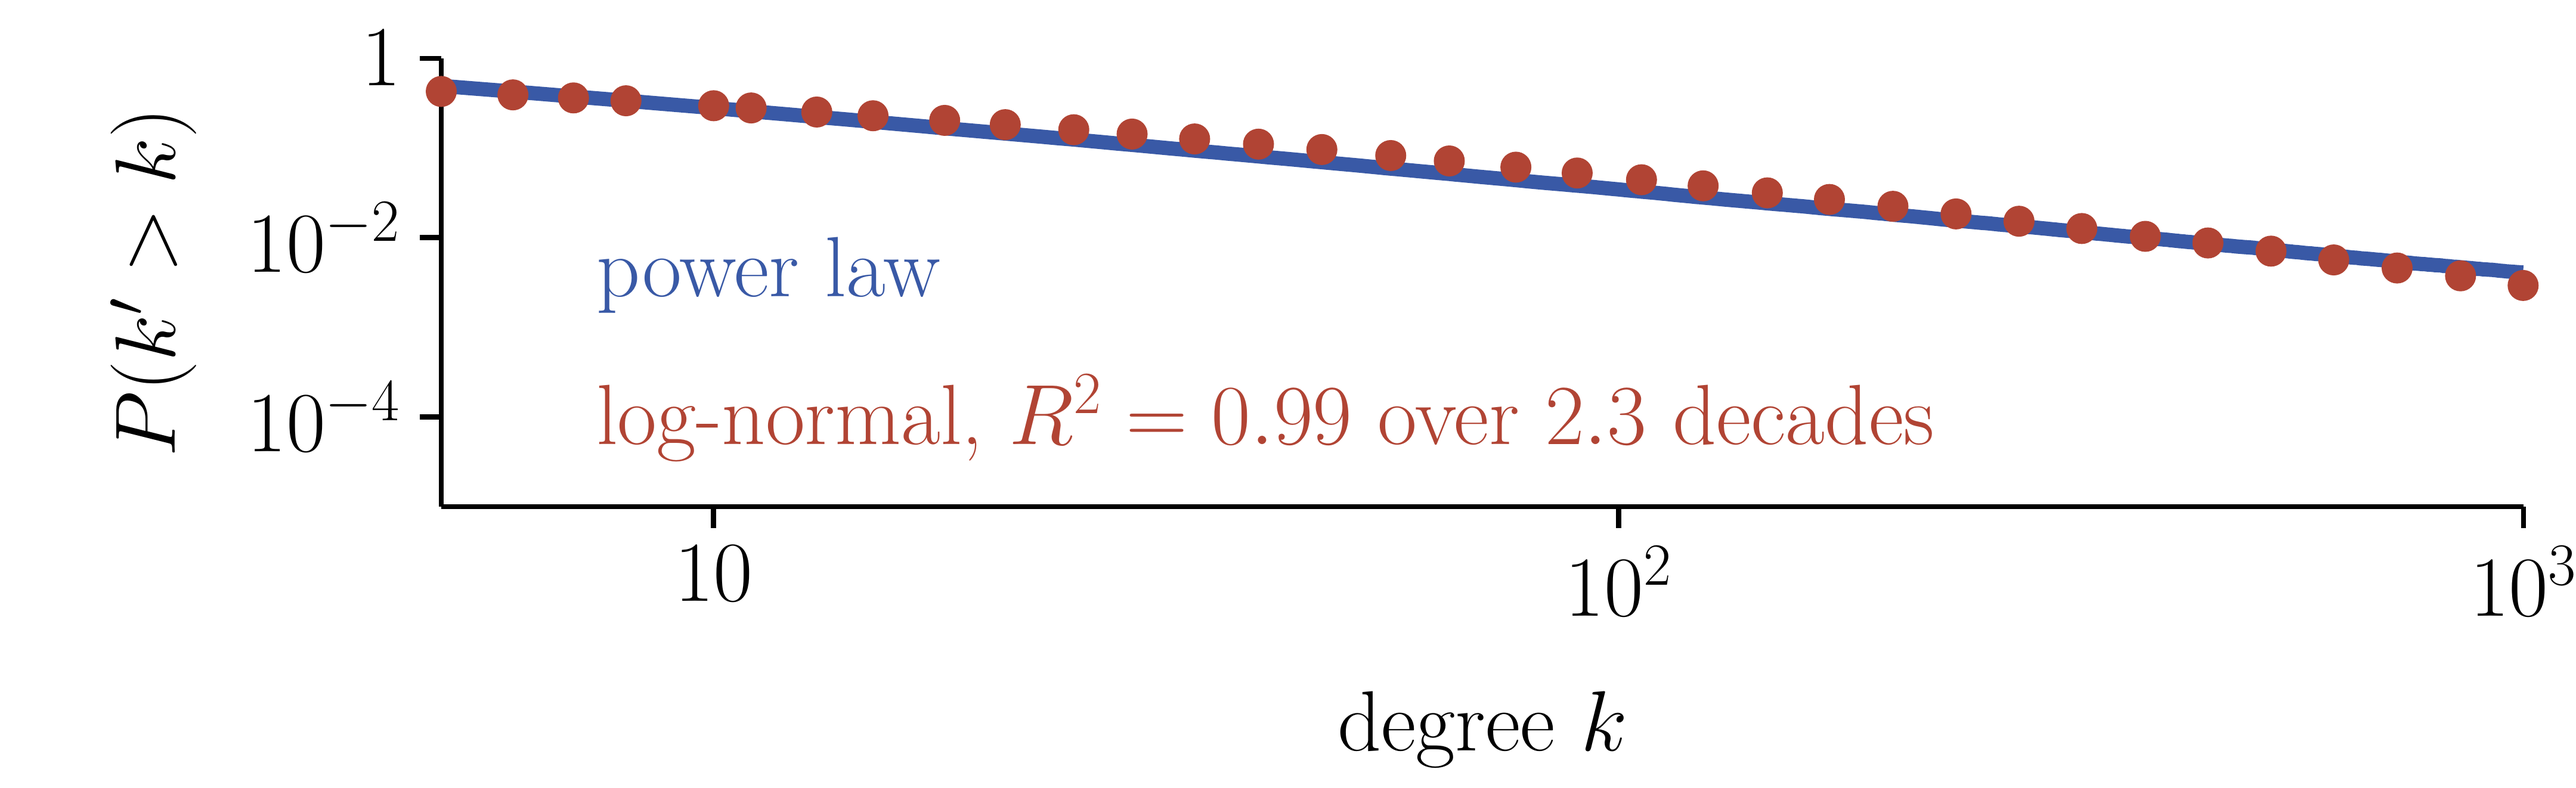
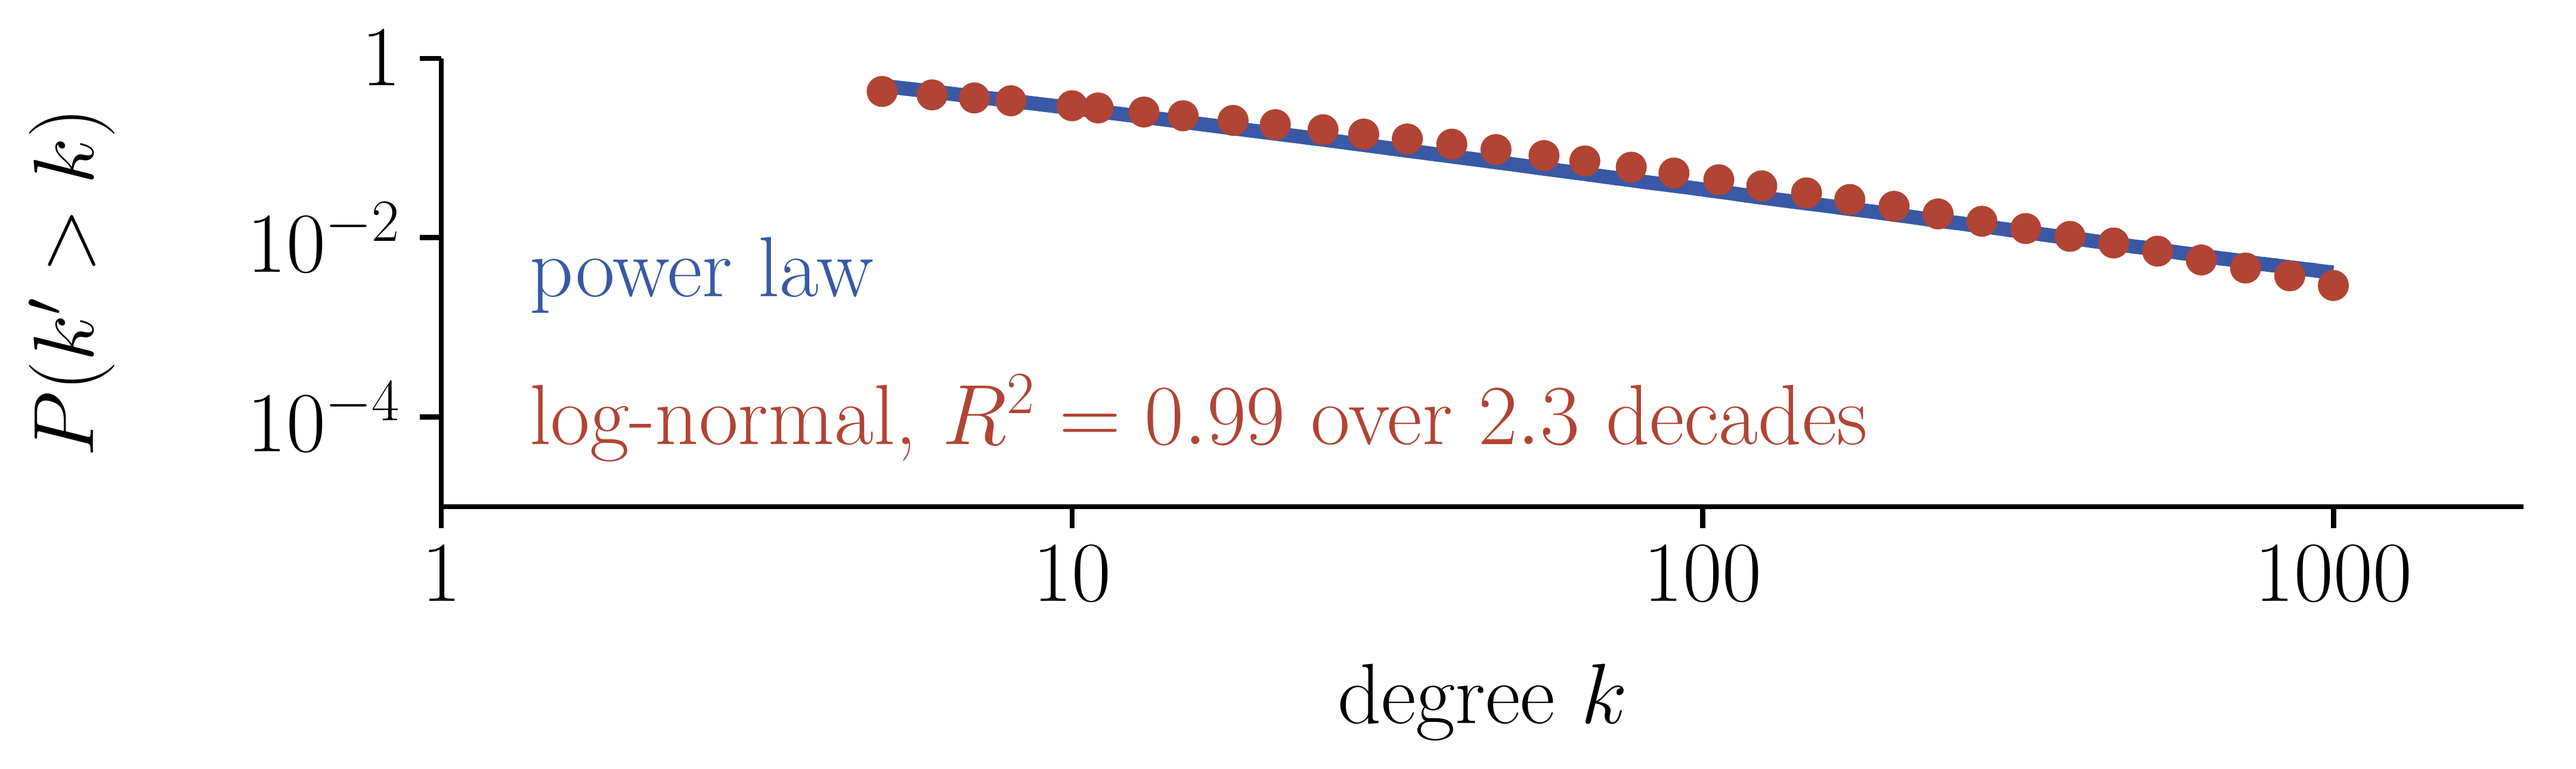
m04 Batch C R5 minors: the module's CCDF ruler on both axes, and a timeline that claims nothing
D5-2. C4-3 imported the CCDF box and limits and fixed the y axis; the x axis
stayed hand-rolled, so k ran at 379.5bp per decade against 264.5 everywhere else
and a slope here could not be compared with a slope on 092 -- which is the
comparison that slide asks for out loud. figs_tail already had `ccdf_axes()`,
which fixes bp per decade on BOTH axes and asserts the range fits, and
`CCDF_PX_PER_DECADE` is defined off log10(2000), so (1, 2000) is exactly the
frame's width. Going through the builder is what stops the next round finding the
half I did not think of; importing two constants was not enough.

D5-3. Metric spacing is arithmetically unavailable here: the 12:8 ratio needs
822bp of dot-to-dot span and the end columns' own widths leave 712 at 36pt. So
the arrowhead goes -- it was the part promising a continuous scale -- and the
interval chips with it. Three dated marks on a connector claim nothing, which is
the only honest option left.

A5-1/D5-1 blocked: feld.py has no roles yet.

Claude-Session: https://claude.ai/code/session_01QK8KCQxxNTtDxCUSBAkuRQ

diff --git a/docs/slide/new/m04/figures/figs_edge.py b/docs/slide/new/m04/figures/figs_edge.py
@@ -29,7 +29,7 @@ import numpy as np
 from figlib import (EDGE_W, NODE, SMALLNODE, Axes, assert_planar_drawing,
                     clearance_bad, crossings, disc, dot, emit, polyline, pct, seg, text)
 from feld import ABOVE, BELOW, EQUAL, degree, friend_mean
-from figs_tail import CCDF_BOX, CCDF_YLIM, CCDF_YTICKS, HUBS
+from figs_tail import HUBS, axis_titles, ccdf_axes
 from verify_numbers import (LITERATURE, ccdf, ccdf_fit, condmat, internet_as,
                             lognormal_degrees, moments, net_stats, yeast_ppi)
 
@@ -476,17 +476,21 @@ def fig_lognormal_trap():
     gap = max(abs(math.log10(float((pl > k).mean()) / float((ln > k).mean()))) for k in grid)
     assert gap < 0.16, f"the two CCDFs are {gap:.2f} decades apart -- not on top of each other"
 
-    # The deck's CCDF frame, imported rather than hand-rolled. This panel had its own
-    # box, its own y limits and its own title ("CCDF" against P(k'>k) everywhere else),
-    # so it ran at 65px per decade where the other seven run at 37.5 -- an unannounced
-    # change of ruler, on the slide range whose whole argument is that an unannounced
-    # change of ruler misleads you. The curve only reaches 10^-2.5, so the lower half of
-    # the frame is empty; that is this distribution not going as deep as cond-mat's,
-    # which is readable information and not a defect to be scaled away.
-    ax = Axes(CCDF_BOX, (KLO, KHI), CCDF_YLIM, xlog=True, ylog=True,
-              xlabel="degree $k$", ylabel="$P(k'>k)$",
-              xticks=[10, 100, 1000], yticks=CCDF_YTICKS)
-    b = ax.frame()
+    # The module's one CCDF ruler, built by the module's own builder. R4's C4-3 fixed
+    # this panel's y axis by importing the box and the limits, and left the x axis
+    # hand-rolled -- so k still ran at 379.5bp per decade against 264.5 everywhere else,
+    # and a slope drawn here could not be compared with a slope drawn on 092, which is
+    # the comparison that slide asks for out loud. `ccdf_axes` fixes bp per decade on
+    # BOTH axes and asserts the range fits; going through it is what stops the next
+    # round finding the half I did not think of.
+    # The axis spans the module's canonical (1, 2000) -- CCDF_PX_PER_DECADE is defined
+    # off log10(2000), so that range is exactly CCDF_BOX's width -- and the curves
+    # occupy the 5..1000 they actually cover. Ticks 1/10/100/1000 like every other k
+    # axis. Centring a 608bp frame instead put the ink at 75% of the canvas, under the
+    # 76% floor, which is the gate saying the same thing: the frame is the deck's, not
+    # this figure's to trim.
+    ax = ccdf_axes((1, 2000), [1, 10, 100, 1000])
+    b = ax.frame() + axis_titles(ax, "degree $k$", "$P(k'>k)$")
     sel = (ks_pl >= KLO) & (ks_pl <= KHI)
     b += ax.line(ks_pl[sel], su_pl[sel], color="accent", w=6.0)
     keep = np.unique(np.round(np.logspace(math.log10(KLO), math.log10(KHI), 34)).astype(int))
@@ -496,9 +500,12 @@ def fig_lognormal_trap():
     # frame this 2.5-decade curve leaves clear: it runs across the top, so anything at
     # the right is under it, and the collision boxes are wide enough that a right-hand
     # label overlaps a left-hand one whatever the height.
-    b += text(250, 215, "power law", color="accent", anchor="west")
-    b += text(250, 155, f"log-normal, $R^2 = {_dec(r2, 2)}$ over "
-                        f"${_dec(decades, 1)}$ decades", color="accenttwo", anchor="west")
+    # inside the centred frame, under the curve: `ccdf_axes(centre=True)` shifts the
+    # box, so these are placed off ax.x0 rather than off the canvas
+    b += text(ax.x0 + 37, 215, "power law", color="accent", anchor="west")
+    b += text(ax.x0 + 37, 155, f"log-normal, $R^2 = {_dec(r2, 2)}$ over "
+                               f"${_dec(decades, 1)}$ decades",
+              color="accenttwo", anchor="west")
     emit("lognormal-trap", b, container="full", h=400)
 
 
@@ -506,9 +513,13 @@ def fig_lognormal_trap():
 # slide 087 -- the claim, the doubt, the audit
 # ===========================================================================
 def fig_scale_free_debate():
-    b = seg((60, 230), (1005, 230), color="annot", w=3.0)
-    b += seg((1005, 230), (1030, 230), color="annot", w=3.0,
-             arrow="-{Stealth[length=16bp,width=12bp]}")
+    # No arrowhead and no interval chips. The dots are equally spaced and the intervals
+    # are not (12 years, then 8), and metric spacing is arithmetically unavailable at
+    # 36pt: the 1.5 ratio needs 822bp of dot-to-dot span and the end columns' own widths
+    # leave 712. An arrowhead promises a continuous scale, so it was the part of the
+    # drawing making the claim; the chips I added in R4 then printed numbers the
+    # spacing contradicted. Three dated marks on a connector claim nothing.
+    b = seg((60, 230), (1020, 230), color="annot", w=3.0)
     # The 2019 dot carried no content, and the slide's title promises a statistical
     # test that nothing on the drawing named. Each dot now says what its year
     # contributed, and 2019 names the test.
@@ -526,9 +537,6 @@ def fig_scale_free_debate():
     # left. Metric spacing does not fit: it would leave 268bp between 2011 and 2019 for
     # a column whose widest line models 448. So the intervals are named instead, which
     # says the thing the spacing was implying wrongly.
-    for a, c in zip(marks[:-1], marks[1:]):
-        b += text((a[0] + c[0]) / 2, 248, f"{int(c[1]) - int(a[1])} years",
-                  color="annot", anchor="south")
     for x, year, who, role, what in marks:
         b += dot(x, 230, color="accent", d=SMALLNODE)
         b += text(x, 285, year, anchor="south", size=48)
